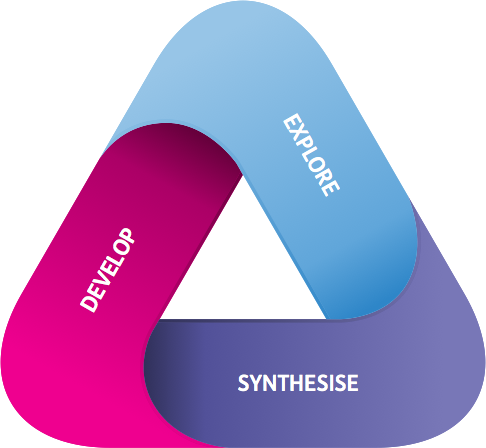
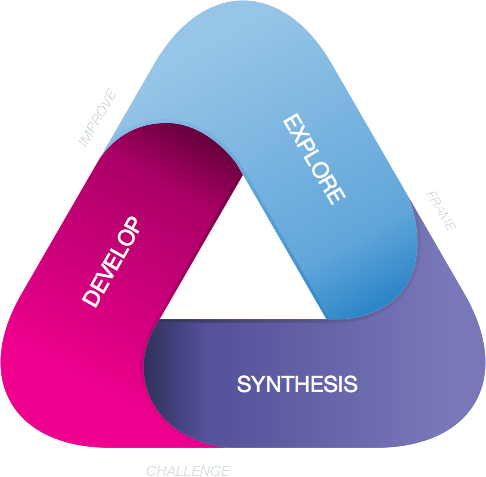
GitBook: [master] 13 pages and 11 assets modified

diff --git a/README.md b/README.md
@@ -1,20 +1,20 @@
 ---
-description: Draft 5
+description: Draft 6
 ---
 
 # Preface
 
-FAST is a framework for [platforming](https://design.platforminteraction.com/appendix/glossary/p). It pairs exploration of platforming opportunities with their development into scalable businesses.
+FAST is a framework for [platforming](appendix/glossary.md#p). It pairs exploration of platforming opportunities with their development into scalable businesses.
 
-There is no shortage in publications on [platforms](https://design.platforminteraction.com/appendix/glossary/p) and their socio-economic impact. While these for sure help in understanding why and what of platforms, how to build and evolve one is much less covered.
+There is no shortage in publications on [platforms](appendix/glossary.md#p) and their socio-economic impact. While these for sure help in understanding why and what of platforms, how to build and evolve one is much less covered.
 
 FAST addresses these concerns in an iterative process of platforming. It'll take you from exploring a fuzzy hunch of opportunity all the way to running a scaled platform business —and back.
 
 ## Audience
 
-FAST squarely aims for addressing actual challenges in platforming. There is little to none education on the topics of strategic planning, service design and business development.
+FAST squarely aims for addressing actual challenges in platforming. There is little to none education on the topics of platforms, strategic planning, service design and software development.
 
-Of course, learning on these topics by working through the FAST framework _may_ be an interesting exercise in itself.
+Of course, learning on these topics by working through the FAST framework may be an interesting exercise in itself. The [Glossary](appendix/glossary.md) and [References](appendix/references.md) would make for a good start.
 
 ## Acronym
 
@@ -24,17 +24,19 @@ For one, this emphasises the strategic intention and infinitely iterative nature
 
 ## Acknowledgement
 
-A notable aspect of FAST is it aggregating existing knowledge, tools and practices. It is a true product of the work from many in the fields of strategic planning, service design and agile software development. 
+A notable aspect of FAST is it aggregating existing knowledge, tools and practices. It is a true product of the work from many in the fields of platform economy, strategic planning, service design and agile software development. 
 
-[Platform Design Toolkit](https://platformdesigntoolkit.com/) has been instrumental in the gestation of FAST. It figures front and centre in the [Synthesis phase](design-phases/platform-synthesis.md), which also takes many insights from the Toolkit's [masterclasses](https://platformdesigntoolkit.com/public-masterclass/) and [newsletters](https://us11.campaign-archive.com/home/?u=e272a9d50c52efb331777c60a&id=b0460ae881).
+[Abhimanyu Bhardwaj's](https://www.linkedin.com/in/bhardwajabhimanyu/) [Tris framework](https://www.linkedin.com/pulse/how-i-plan-save-design-thinking-abhimanyu-bhardwaj/) motivated making the crucial [design-development leap](design-process/phases.md).
 
 [Jesse Grimes](https://www.linkedin.com/in/jessegrimes/) opened the door for framing service design in a context of [emergence](https://design.platforminteraction.com/appendix/glossary/e). The resulting [presentation at SDGC 2017](https://speakerdeck.com/absynthmind/platform-ecosystems-designing-for-potential-sdgc-2017) lit the fire under FAST.
 
-[Abhimanyu Bhardwaj](https://www.linkedin.com/in/bhardwajabhimanyu/) not only [saved design thinking](https://www.linkedin.com/pulse/how-i-plan-save-design-thinking-abhimanyu-bhardwaj/) from itself. His _Tris_ framework also helped FAST in making that crucial [design-development leap](design-process/triangle.md).
+[Platform Design Toolkit](https://platformdesigntoolkit.com/) has been instrumental in the gestation of FAST. It figures front and centre in the [Synthesise phase](design-phases/platform-synthesis.md), which also takes many insights from the Toolkit's [masterclasses](https://platformdesigntoolkit.com/public-masterclass/) and [newsletters](https://us11.campaign-archive.com/home/?u=e272a9d50c52efb331777c60a&id=b0460ae881).
+
+[Sangeet Paul Choudary's](https://www.linkedin.com/in/sangeetpaul/) [Platform Scale](https://www.amazon.com/Platform-Scale-emerging-business-investment-ebook/dp/B015FAOKJ6) set the template for a systems oriented approach to platform design.
 
 ## Attribution & Contribution
 
 The FAST platform design framework and all its supporting contents is released under an [Attribution-NonCommercial-ShareAlike 4.0 International](https://creativecommons.org/licenses/by-nc-sa/4.0/) license.
 
-You're welcomed to contribute to the framework. You can use the **Edit on Github** button to fix spelling and grammar errors, or help clarify sections.
+You're welcomed to contribute to the framework. You can use the **Edit on Github** button to fix spelling and grammar errors, or help clarify and extend sections.
 

diff --git a/appendix/glossary.md b/appendix/glossary.md
@@ -1,6 +1,16 @@
-# P
+# Glossary
 
+## E
 
+**Ecosystem** - A set of _Entities_ motivated to act in a certain context \(e.g. an industry, a market, or an organisation\) by exchanging value, leveraging resources and generating outcomes.
+
+**Ecosystem Emergence** - The flow of events in an _Ecosystem_ as they result from the _Entities_ acting in response to unplanned challenges.
+
+**Ecosystem Mobilisation** - The act of better organising an _Ecosystem_, either by amplifying its potential or by facilitating higher-order value creations.
+
+**Entity** - a person, an organisation or automated actor with specific objectives, freedom and boundaries, and assets and capabilities.
+
+## P
 
 **Platform** _-_ A business model that connects _Entities_ and facilitates the value-creating exchanges between them, mediated by software for scale, scope and speed.
 
@@ -9,6 +19,8 @@
 **Platform Design** - The activity of planning and executing for _Ecosystem Mobilisation_ by means of a _Platform_.
 
 **Platform Narrative** - The positive, galvanising message that [answers](http://www.marketingjournal.org/the-power-of-company-narratives-john-hagel/) to _Entities_ why they should join the _Platform_, what they will be able to accomplish in doing so and how they should connect for this to happen. 
+
+**Platform Participant** - An _Entity_ that joined the _Platform._
 
 **Platform Role** - one or more _Entities_ with common motivations to join the _Platform_, resources to leverage and outcomes sought after.
 

diff --git a/design-process/phases.md b/design-process/phases.md
@@ -1,0 +1,14 @@
+# Phases
+
+Design Thinking draws from the designer's toolbox for non-typical design contexts, like business strategy or social innovation. As an approach to innovation, it combines [_exploring problems_, _building empathy_ and _prototyping solutions_](http://www.jonkolko.com/writingDesignThinking.php)_._ This combination fits the challenges in platforming well:
+
+![FAST Design Phases](../.gitbook/assets/fast-model-tris-rounded-70.jpg)
+
+* \*\*\*\*[**EXPLORE**](../design-phases/ecosystem-exploration.md) the ecosystem to design for. The people, organisations and things acting in context, and the trends and forces as they surface in that context. Gather data without judgement and build understanding.
+* \*\*\*\*[**SYNTHESISE**](../design-phases/platform-synthesis.md) actionable insights from the data gathered. Identify reoccurring problems, expose unexpressed needs and uncover sought after convenience. Capture and prioritise these in a platform model.
+* \*\*\*\*[**DEVELOP**](../design-phases/platform-development.md) validating solutions. Deconstruct the platform model into its hypotheses and bring it to life with a series of pass/fail tests to run in front of the envisioned platform participants. Build, measure, learn.
+
+This approach is non-prescriptive and its three phases are wholly complementary. Each feeds the other, and each sets boundaries for the other.
+
+
+

diff --git a/SUMMARY.md b/SUMMARY.md
@@ -4,8 +4,9 @@
 
 ## Design Process
 
-* [Phases](design-process/triangle.md)
+* [Phases](design-process/phases.md)
 * [Iteration](design-process/diffuse-design.md)
+* [Execution](design-process/execution.md)
 
 ## Design Phases
 
@@ -15,14 +16,11 @@
 
 ## Design Artefacts
 
-* [Ecosystem Awareness](design-artefacts/ecosystem-awareness.md)
-* [Ecosystem Dynamics](design-artefacts/ecosystem-dynamics.md)
-* [Platforming Pattern](design-artefacts/platforming-pattern.md)
+* [Awareness](design-artefacts/ecosystem-awareness.md)
+* [Pattern](design-artefacts/platforming-pattern.md)
 
 ## Appendix
 
-* [Glossary](appendix/glossary/README.md)
-  * [E](appendix/glossary/e.md)
-  * [P](appendix/glossary/p.md)
+* [Glossary](appendix/glossary.md)
 * [References](appendix/references.md)
 

diff --git a/appendix/references.md b/appendix/references.md
@@ -1,2 +1,10 @@
 # References
 
+## Design Thinking
+
+Lydia Howland \(2013\). _Design in Real Time._ [SDNC13](https://www.youtube.com/watch?v=II-Ndsr23FE)
+
+Nicola Morelli, Amalia de Götzen \(2016\). _Service Dominant Logic. Changing perspective, revising the toolbox._ [ServDes 2016](http://www.ep.liu.se/ecp/125/011/ecp16125011.pdf)
+
+Roland Mueller, Katja Thoring \(2012\). _Design Thinking vs. Lean Startup: a comparison of two user-driven innovation strategies_. [ResearchGate](https://www.researchgate.net/publication/234066097_DESIGN_THINKING_VS_LEAN_STARTUP_A_COMPARISON_OF_TWO_USER-DRIVEN_INNOVATION_STRATEGIES)
+

diff --git a/design-artefacts/ecosystem-awareness.md b/design-artefacts/ecosystem-awareness.md
@@ -1,2 +1,2 @@
-# Ecosystem Awareness
+# Awareness
 

diff --git a/design-artefacts/platforming-pattern.md b/design-artefacts/platforming-pattern.md
@@ -1,2 +1,2 @@
-# Platforming Pattern
+# Pattern
 

diff --git a/design-process/execution.md b/design-process/execution.md
@@ -1,0 +1,2 @@
+# Execution
+
